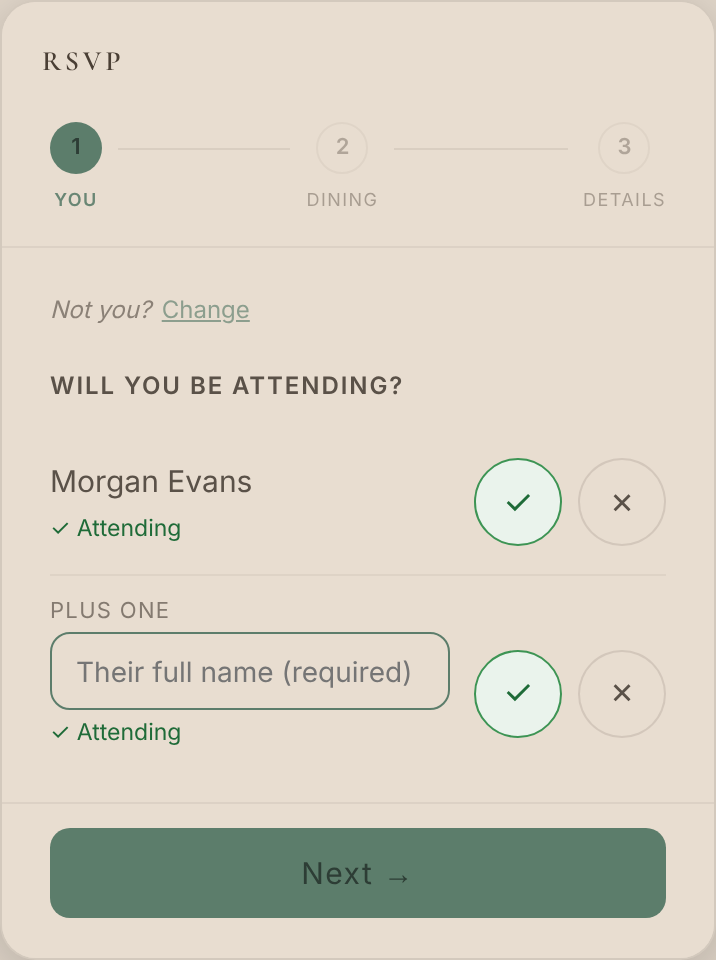
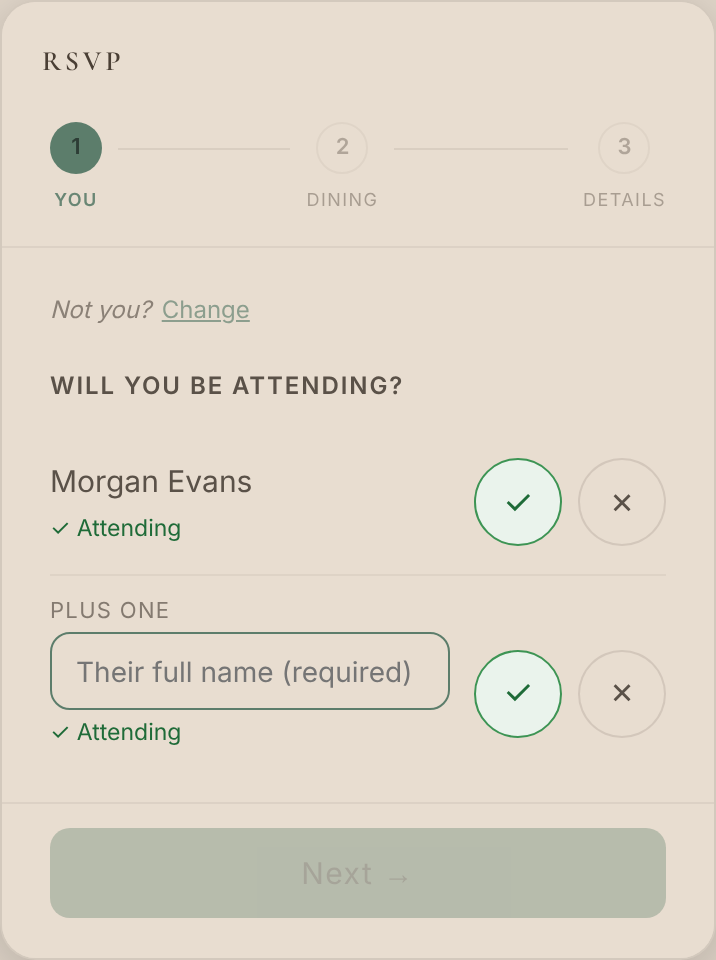
RSVP step 1: Next looks dimmed while a plus-one name is missing (still tappable to highlight the box) — pending review
Claude-Session: https://claude.ai/code/session_019ebu91FgpPSyuHTGFmYJXP

Changed region(s): [[0.0615, 0.8438, 0.9525, 0.9688]]

diff --git a/js/website.js b/js/website.js
@@ -5159,6 +5159,7 @@ function _wbBuildSite(forDownload){
 .rf-nav-back:hover{border-color:${t2.heading}55}
 .rf-nav-next{flex:1;background:${_uvPal.accent};color:${_uvPal.ink};border:none;border-radius:10px;padding:13px;font-size:15px;letter-spacing:.05em;cursor:pointer;font-family:inherit;transition:opacity .15s}
 .rf-nav-next:disabled{opacity:.35;cursor:not-allowed}
+.rf-nav-next.rf-dim{opacity:.35}
 .rf-msg-box{text-align:center;padding:40px 16px}
 .search-row{display:flex;gap:8px;margin-bottom:6px}
 .search-row input{flex:1;min-width:0;padding:12px 14px;font-size:15px;font-family:inherit;color:${t2.text};background:${t2.background||t2.page};border:1.5px solid ${t2.heading}28;border-radius:10px;outline:none;box-sizing:border-box}
@@ -5637,7 +5638,9 @@ function _wbBuildSite(forDownload){
     var allAnswered=group.length>0&&group.every(function(m){return m.att!==null;});
     var p1Ok=group.every(function(m){if(!m.isPlus1||m.att!==true)return true;return(plus1Names[m.id]||'').trim().length>0;});
     var anyYes=group.some(function(m){return m.att===true;});
-    nx.disabled=!allAnswered;   // a missing plus-one name is flagged when Next is tapped
+    nx.disabled=!allAnswered;
+    // Missing plus-one name: Next looks dimmed but stays tappable — a tap highlights the empty box.
+    nx.classList.toggle('rf-dim', allAnswered&&!p1Ok);
     nx.textContent=(allAnswered&&!anyYes)?'Send my RSVP':'Next \\u2192';
   }
 
